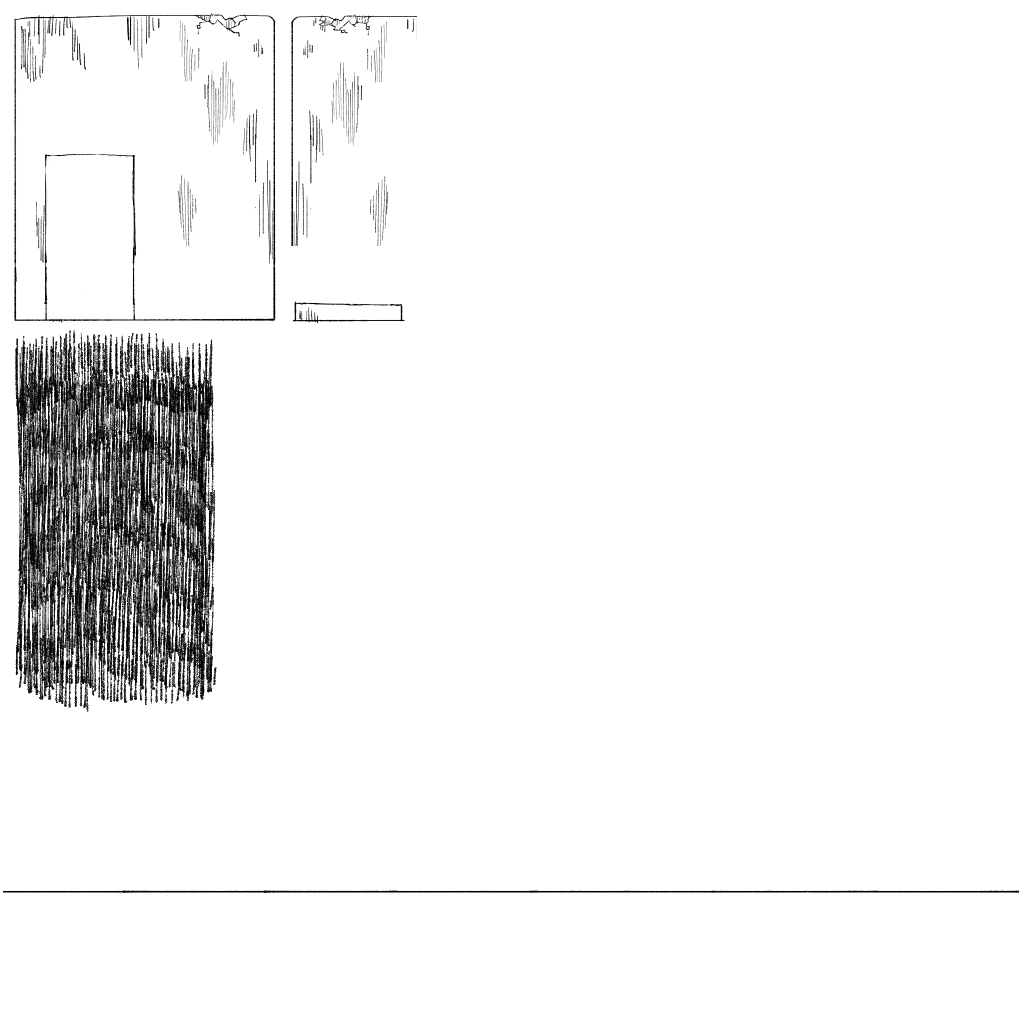
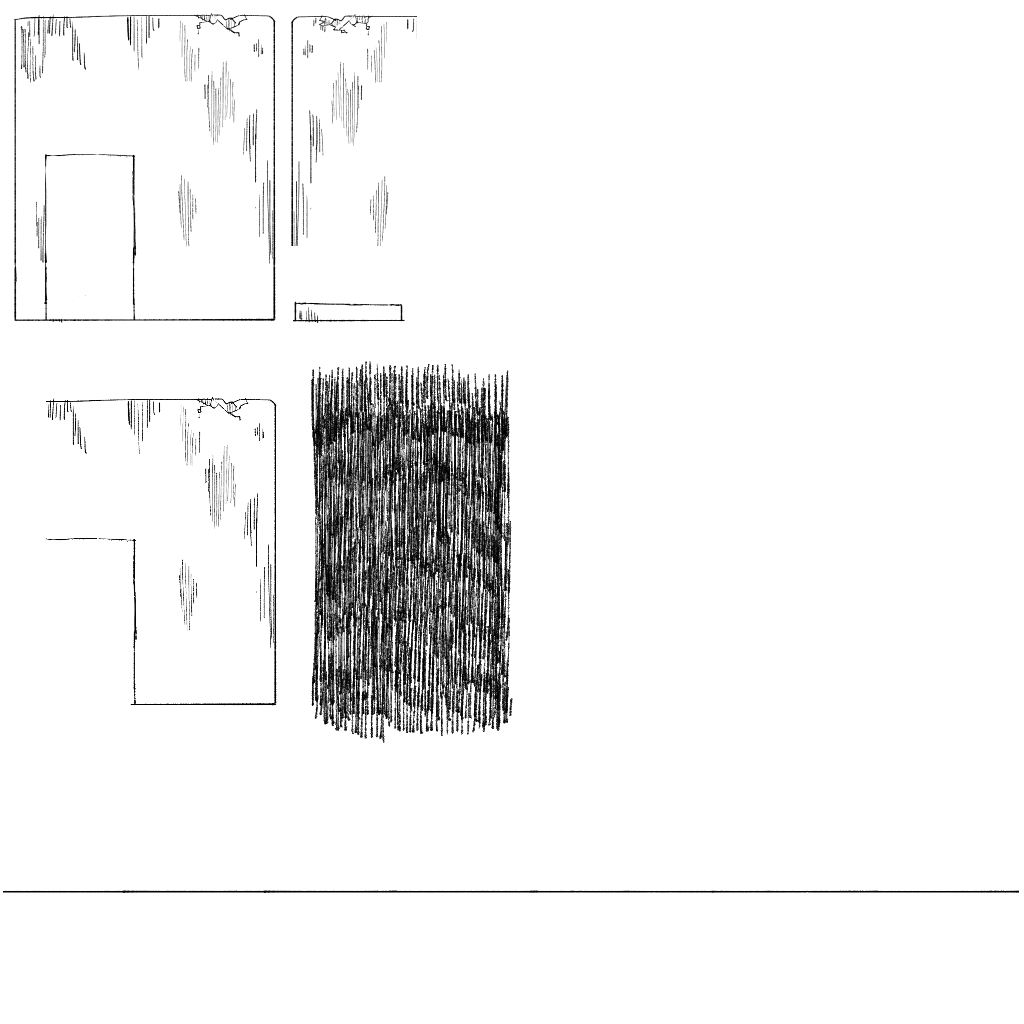
スタート画面テクスチャ配置

Changed region(s): [[0.0, 0.3125, 0.25, 0.6875], [0.25, 0.3438, 0.5, 0.7188]]

diff --git a/main.js b/main.js
@@ -25,11 +25,11 @@ animate();
 
 function init() {
 
-        // camera = new THREE.OrthographicCamera(-120, +120, +67.5, -67.5, 1, 150);
-        // camera.position.z = 100;
+        camera = new THREE.OrthographicCamera(-120, +120, +67.5, -67.5, 1, 150);
+        camera.position.z = 100;
 
-        camera = new THREE.OrthographicCamera( window.innerWidth / - 2, window.innerWidth / 2, window.innerHeight / 2, window.innerHeight / - 2, 0.1, 1000 );
-        camera.position.z = 500;
+        // camera = new THREE.OrthographicCamera( window.innerWidth / - 2, window.innerWidth / 2, window.innerHeight / 2, window.innerHeight / - 2, 0.1, 1000 );
+        // camera.position.z = 500;
 
         scene = new THREE.Scene();
         scene.background = new THREE.Color( 0xffffff );
@@ -40,11 +40,11 @@ function init() {
         scene.add( light );
 
         starring.load();
-        starring.body.position.x = 2000;
-        starring.body.position.y = 200;
+        starring.body.position.x = 60;
+        starring.body.position.y = 660;
         // starring.body.position.x = 1500;
         // starring.body.position.y = 10;
-        // starring.body.position.z = 10;
+        starring.body.position.z = 0;
         scene.add(starring.body);
         // scene.add(obstacle.mesh);
 
@@ -294,7 +294,7 @@ console.log(starring.body.position)
         objects.push(Start5.mesh);
 
         //---------texture------------------------------------
-        const texture111 = new Illusttexture({
+        const textureBuillding01F = new Illusttexture({
             texture:'img/start01.png',
             width: 205,
             height: 665,
@@ -308,16 +308,16 @@ console.log(starring.body.position)
             repeatX: 0.35,
             repeatY: 1,
         })
-        scene.add(texture111.mesh);
-        objects.push(texture111.mesh);
+        scene.add(textureBuillding01F.mesh);
+        objects.push(textureBuillding01F.mesh);
 
-        const texture111b = new Illusttexture({
+        const textureBuillding01B = new Illusttexture({
             texture:'img/back01.png',
             width: 190,
             height: 630,
             x: 95,
             y: 315,
-            z: 2,
+            z: -10,
             offsetX: 0,
             offsetY: 0,
             centerX: 0.531,
@@ -325,63 +325,93 @@ console.log(starring.body.position)
             repeatX: 1,
             repeatY: 1,
         })
-        scene.add(texture111b.mesh);
-        objects.push(texture111b.mesh);
+        scene.add(textureBuillding01B.mesh);
+        objects.push(textureBuillding01B.mesh);
 
-        // const texture112 = new Illusttexture({
-        //     texture:'img/1-1-2.png',
-        //     width: 25,
-        //     height: 33,
-        //     x: 119,
-        //     y: 655,
-        //     z: 80,
-        // })
-        // scene.add(texture112.mesh);
-        // objects.push(texture112.mesh);
+        const textureStartF = new Illusttexture({
+            texture:'img/start02.png',
+            width: 56,
+            height: 85,
+            x: 129,
+            y: 673,
+            z: 50,
+            offsetX: 0,
+            offsetY: 0,
+            centerX: 0,
+            centerY: 0.423,
+            repeatX: 0.27,
+            repeatY: 0.35,
+        })
+        scene.add(textureStartF.mesh);
+        objects.push(textureStartF.mesh);
 
-        // const texture113f = new Illusttexture({
-        //     texture:'img/1-1-3-1.png',
-        //     width: 100,
-        //     height: 125,
-        //     x: 130,
-        //     y: 700,
-        //     z: 30,
-        // })
-        // scene.add(texture113f.mesh);
-        // objects.push(texture113f.mesh);
+        const textureStartB = new Illusttexture({
+            texture:'img/start02.png',
+            width: 56,
+            height: 85,
+            x: 129,
+            y: 673,
+            z: -1,
+            offsetX: 0,
+            offsetY: 0,
+            centerX: 0,
+            centerY: 1,
+            repeatX: 0.27,
+            repeatY: 0.35,
+        })
+        scene.add(textureStartB.mesh);
+        objects.push(textureStartB.mesh);
 
-        // const texture113b = new Illusttexture({
-        //     texture:'img/1-1-3-2.png',
-        //     width: 130,
-        //     height: 130,
-        //     x: 107,
-        //     y: 666.5,
-        //     z: 2,
-        // })
-        // scene.add(texture113b.mesh);
-        // objects.push(texture113b.mesh);
+        const textureStartL = new Illusttexture({
+            texture:'img/start02.png',
+            width: 75,
+            height: 55,
+            x: 110,
+            y: 655,
+            z: -2,
+            offsetX: 0,
+            offsetY: 0,
+            centerX: 0.4,
+            centerY: 1,
+            repeatX: 0.3,
+            repeatY: 0.3,
+        })
+        scene.add(textureStartL.mesh);
+        objects.push(textureStartL.mesh);
 
-        // const texture113 = new Illusttexture({
-        //     texture:'img/1-1-3.png',
-        //     width: 100,
-        //     height: 125,
-        //     x: 130,
-        //     y: 700,
-        //     z: 3,
-        // })
-        // scene.add(texture113.mesh);
-        // objects.push(texture113.mesh);
+        const textureTotsu = new Illusttexture({
+            texture:'img/start02.png',
+            width: 45,
+            height: 30,
+            x: 127,
+            y: 631,
+            z: 50,
+            offsetX: 0,
+            offsetY: 0,
+            centerX: 0.34,
+            centerY: 0.68,
+            repeatX: 0.2,
+            repeatY: 0.1,
+        })
+        scene.add(textureTotsu.mesh);
+        objects.push(textureTotsu.mesh);
 
-        // const texture114 = new Illusttexture({
-        //     texture:'img/1-1-4.png',
-        //     width: 40,
-        //     height: 50,
-        //     x: 120,
-        //     y: 660,
-        //     z: 0,
-        // })
-        // scene.add(texture114.mesh);
-        // objects.push(texture114.mesh);
+        const textureStartK = new Illusttexture({
+            texture:'img/start02.png',
+            width: 60,
+            height: 70,
+            x: 135,
+            y: 655,
+            z: -10,
+            offsetX: 0,
+            offsetY: 0,
+            centerX: 0.5,
+            centerY: 0.35,
+            repeatX: 0.4,
+            repeatY: 0.5,
+        })
+        scene.add(textureStartK.mesh);
+        objects.push(textureStartK.mesh);
 
         const texture121 = new Illusttexture({
             texture:'img/start01.png',

diff --git a/index.html b/index.html
@@ -9,7 +9,6 @@
     <script src="assets/js/home/Obstacle.js"></script>
     <script src="assets/js/home/Illusttexture.js"></script>
     <script src="assets/js/home/Map.js"></script>
-    <!-- <script src="assets/js/home/mrdoob.js"></script> -->
     <link rel="stylesheet" type="text/css" href="css/ress.min.css">
     <link rel="stylesheet" type="text/css" href="main.css">
 

diff --git a/assets/js/home/Obstacle.js b/assets/js/home/Obstacle.js
@@ -6,10 +6,10 @@ class Obstacle{
         const defaults = {
             width: 20,
             height: 20,
-            depth: 12,
+            depth: 20,
             color: 0xf99fff,
             transparent: true,
-            opacity: 1,
+            opacity: 0.3,
             x: 0,
             y: 0,
             z: 0

diff --git a/assets/js/home/Starring.js b/assets/js/home/Starring.js
@@ -44,7 +44,7 @@ class Starring {
     this._playerVelocity = new THREE.Vector3();
 
     // 主人公の移動速度
-    this.PLAYERSPEED = 5000.0;
+    this.PLAYERSPEED = 500.0;
 
     this.clock = new THREE.Clock();
 
